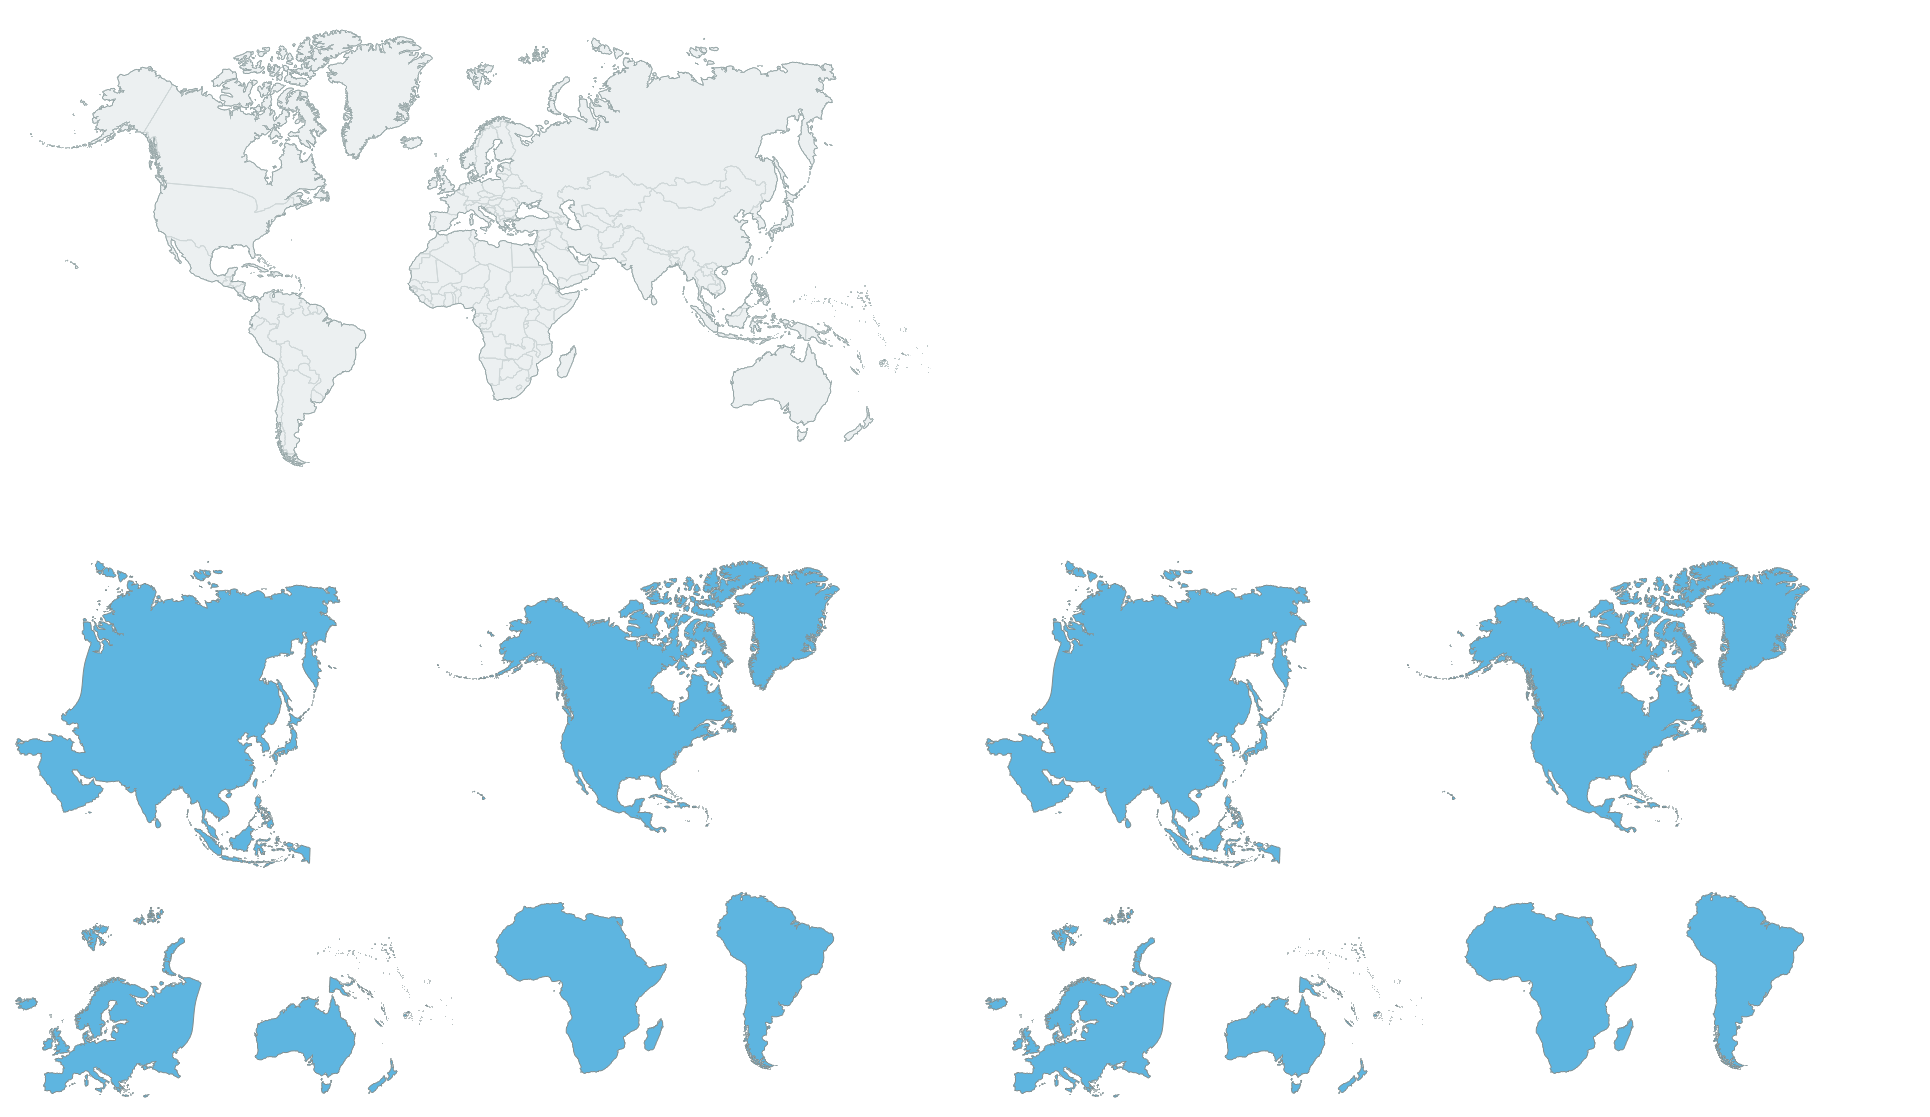
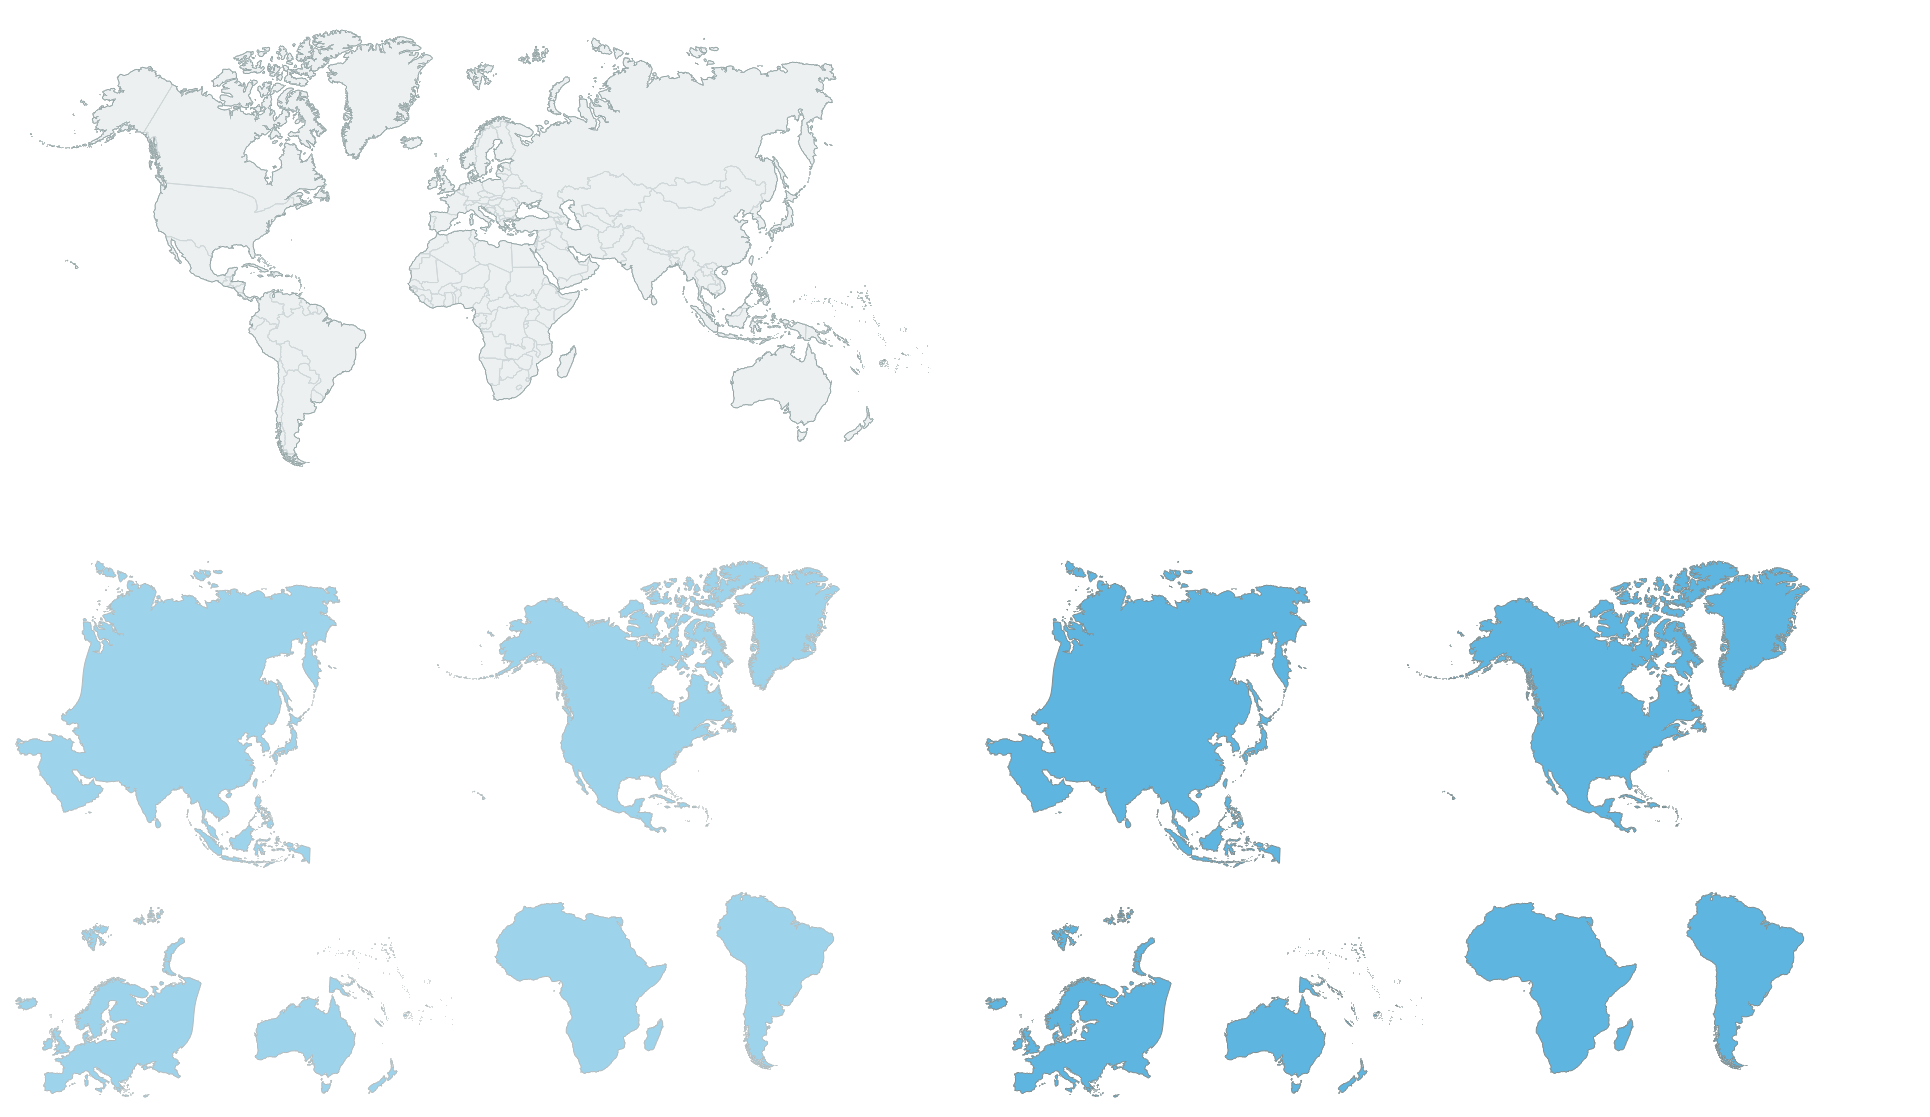
correction css map

diff --git a/public/stylesheet/user_style/map_style.css b/public/stylesheet/user_style/map_style.css
@@ -16,7 +16,7 @@
 .c1 .s1{height:.1em;left:9.5em;top:5.7em;width:.1em}.c1 .s2{height:.4em;left:9.3em;top:5.8em;width:.3em}.c1 .s3{height:.3em;left:9.2em;top:6em;width:.3em}.c1 .s4{height:.2em;left:8.2em;top:6.5em;width:.6em}.c1 .s5{height:.1em;left:8.1em;top:6.4em;width:.8em}.c1 .s6{height:.4em;left:8em;top:6em;width:1em}.c1 .s7{height:.5em;left:8em;top:5.5em;width:1.2em}.c1 .s8{height:.2em;left:9.6em;top:4.8em;width:.1em}.c1 .s9{height:.4em;left:9.5em;top:4.8em;width:.1em}.c1 .s10{height:.5em;left:9.3em;top:4.8em;width:.2em}.c1 .s11{height:.7em;left:9.2em;top:4.7em;width:.1em}.c1 .s12{height:.9em;left:7.9em;top:4.6em;width:1.3em}.c1 .s13{height:1em;left:7.8em;top:4.4em;width:1.3em}.c1 .s14{height:.1em;left:7.5em;top:3.8em;width:.5em}.c1 .s15{height:.1em;left:7.1em;top:3.9em;width:.9em}.c1 .s16{height:.6em;left:6.8em;top:4.3em;width:.1em}.c1 .s17{height:1em;left:7em;top:4.1em;width:.1em}.c1 .s18{height:.8em;left:6.9em;top:4.2em;width:2.1em}.c1 .s19{height:1.2em;left:7.1em;top:4em;width:1.8em} .c2 .s1{height:.1em;left:11.7em;top:.6em;width:.1em}.c2 .s2{height:.1em;left:11.5em;top:.7em;width:.5em}.c2 .s3{height:.2em;left:11.4em;top:.8em;width:.6em}.c2 .s4{height:.1em;left:9.7em;top:.6em;width:.3em}.c2 .s5{height:.1em;left:9.8em;top:.7em;width:.4em}.c2 .s6{height:.1em;left:9.8em;top:.8em;width:.7em}.c2 .s7{height:.1em;left:9.8em;top:.9em;width:.8em}.c2 .s8{height:.3em;left:9.6em;top:1.6em;width:.1em}.c2 .s9{height:.4em;left:9.7em;top:1.6em;width:.1em}.c2 .s10{height:.2em;left:13.9em;top:1.2em;width:.1em}.c2 .s11{height:1.5em;left:13.7em;top:1em;width:.2em}.c2 .s12{height:1.6em;left:13.6em;top:1em;width:.1em}.c2 .s13{height:1.9em;left:13.2em;top:1em;width:.4em}.c2 .s14{height:1.1em;left:9.7em;top:2.1em;width:3.8em}.c2 .s15{height:.9em;left:9.6em;top:2.4em;width:3.8em}.c2 .s16{height:.1em;left:9.3em;top:3.2em;width:.1em}.c2 .s17{height:.5em;left:9.4em;top:3.1em;width:.1em}.c2 .s18{height:.6em;left:9.5em;top:3em;width:3.8em}.c2 .s19{height:2.9em;left:9.8em;top:1em;width:3.4em}.c2 .s20{height:.1em;left:12.4em;top:5.7em;width:.4em}.c2 .s21{height:.2em;left:11.8em;top:5.5em;width:1.6em}.c2 .s22{height:.2em;left:11.6em;top:5.3em;width:1.8em}.c2 .s23{height:.2em;left:11.5em;top:5.1em;width:1.5em}.c2 .s24{height:.1em;left:10.8em;top:5em;width:2.1em}.c2 .s25{height:.1em;left:10.7em;top:4.9em;width:2.2em}.c2 .s26{height:.1em;left:10.6em;top:4.8em;width:2.2em}.c2 .s27{height:.1em;left:9.7em;top:4.8em;width:.1em}.c2 .s28{height:.1em;left:9.3em;top:4.7em;width:3.5em}.c2 .s29{height:.3em;left:9.2em;top:4.4em;width:3.5em}.c2 .s30{height:1.1em;left:9.1em;top:3.5em;width:.1em}.c2 .s31{height:.2em;left:9em;top:4.2em;width:3.8em}.c2 .s32{height:.1em;left:8.6em;top:3.8em;width:.3em}.c2 .s33{height:.2em;left:8.5em;top:3.6em;width:4.8em}.c2 .s34{height:.6em;left:8.9em;top:3.6em;width:4em} .c3 .s1{height:.1em;left:14.3em;top:4.7em;width:.2em}.c3 .s2{height:.1em;left:13.5em;top:4.7em;width:.2em}.c3 .s3{height:.2em;left:13.2em;top:4.9em;width:.2em}.c3 .s4{height:.3em;left:13.4em;top:4.8em;width:.4em}.c3 .s5{height:.5em;left:13.8em;top:4.8em;width:.8em}.c3 .s6{height:.4em;left:13.4em;top:5.3em;width:1.8em}.c3 .s7{height:.1em;left:12.8em;top:5.7em;width:2.4em}.c3 .s8{height:.1em;left:12.7em;top:5.8em;width:2.5em}.c3 .s9{height:.2em;left:15.2em;top:6em;width:.3em}.c3 .s10{height:.3em;left:12.5em;top:5.9em;width:2.7em}.c3 .s11{height:.3em;left:12.4em;top:6em;width:2.6em}.c3 .s12{height:.1em;left:13.2em;top:7.3em;width:1.1em}.c3 .s13{height:.1em;left:13.2em;top:7.2em;width:1.2em}.c3 .s14{height:.1em;left:13.2em;top:7.1em;width:1.3em}.c3 .s15{height:.1em;left:13.1em;top:7em;width:1.5em}.c3 .s16{height:.1em;left:13em;top:6.9em;width:1.6em}.c3 .s17{height:.2em;left:12.2em;top:6.7em;width:2.4em}.c3 .s18{height:.7em;left:12.1em;top:6.1em;width:2.3em} .c4 .s1{height:.1em;left:8.9em;top:.7em;width:.2em}.c4 .s2{height:.1em;left:8.8em;top:.8em;width:.4em}.c4 .s3{height:.2em;left:8.6em;top:.9em;width:.5em}.c4 .s4{height:.2em;left:8.2em;top:1.1em;width:.1em}.c4 .s5{height:.5em;left:7.8em;top:1em;width:.4em}.c4 .s6{height:.1em;left:9.2em;top:1.3em;width:.3em}.c4 .s7{height:.5em;left:9.1em;top:1.4em;width:.3em}.c4 .s8{height:.1em;left:9.7em;top:2em;width:.1em}.c4 .s9{height:.5em;left:8.1em;top:1.9em;width:1.6em}.c4 .s10{height:1em;left:7.9em;top:2em;width:1.7em}.c4 .s11{height:.8em;left:7.8em;top:2.3em;width:1.7em}.c4 .s12{height:.1em;left:6.7em;top:2.2em;width:.3em}.c4 .s13{height:.2em;left:6.6em;top:2.3em;width:.5em}.c4 .s14{height:.1em;left:7.2em;top:2.5em;width:.1em}.c4 .s15{height:1.1em;left:7.7em;top:2.4em;width:1.6em}.c4 .s16{height:.3em;left:9.2em;top:3.3em;width:.2em}.c4 .s17{height:1.1em;left:7.6em;top:2.5em;width:1.5em}.c4 .s18{height:.5em;left:7.1em;top:2.7em;width:2.3em}.c4 .s19{height:1.2em;left:7.3em;top:2.6em;width:1.2em}.c4 .s20{height:.4em;left:7.1em;top:3.5em;width:.4em}.c4 .s21{height:.1em;left:8em;top:3.8em;width:.6em}.c4 .s22{height:.1em;left:8.4em;top:3.9em;width:.5em} .c5 .s1{height:.2em;left:7.1em;top:.9em;width:.1em}.c5 .s2{height:.5em;left:7em;top:.8em;width:.1em}.c5 .s3{height:1em;left:6.9em;top:.7em;width:.1em}.c5 .s4{height:1.5em;left:6.7em;top:.6em;width:.2em}.c5 .s5{height:1.6em;left:6.4em;top:.6em;width:.3em}.c5 .s6{height:1.7em;left:6.3em;top:.6em;width:.1em}.c5 .s7{height:1.7em;left:6.1em;top:.7em;width:.2em}.c5 .s8{height:.1em;left:5.2em;top:.5em;width:.8em}.c5 .s9{height:.1em;left:5em;top:.6em;width:1.1em}.c5 .s10{height:2em;left:4.3em;top:.7em;width:1.8em}.c5 .s11{height:2.6em;left:4em;top:.8em;width:1.5em}.c5 .s12{height:2.6em;left:3.9em;top:.9em;width:1.3em}.c5 .s13{height:2.6em;left:3.7em;top:1.1em;width:1.1em}.c5 .s14{height:2.6em;left:3.5em;top:1.2em;width:1.1em}.c5 .s15{height:.2em;left:.5em;top:2.2em;width:.2em}.c5 .s16{height:.2em;left:.7em;top:2.3em;width:.9em}.c5 .s17{height:.1em;left:1.3em;top:1.6em;width:.2em}.c5 .s18{height:.7em;left:1.2em;top:1.7em;width:.5em}.c5 .s19{height:1em;left:1.7em;top:1.4em;width:.2em}.c5 .s20{height:1.1em;left:1.9em;top:1.2em;width:.2em}.c5 .s21{height:1.2em;left:2.1em;top:1.1em;width:.3em}.c5 .s22{height:1.8em;left:2.4em;top:1.1em;width:.1em}.c5 .s23{height:2.6em;left:2.5em;top:1.1em;width:.1em}.c5 .s24{height:2.7em;left:2.6em;top:1.2em;width:.1em}.c5 .s25{height:2.8em;left:2.7em;top:1.3em;width:.1em}.c5 .s26{height:3em;left:2.8em;top:1.3em;width:.1em}.c5 .s27{height:3em;left:2.9em;top:1.4em;width:.2em}.c5 .s28{height:3.2em;left:3.1em;top:1.4em;width:1.4em}.c5 .s29{height:.4em;left:3.2em;top:4.3em;width:1.4em}.c5 .s30{height:.2em;left:3.9em;top:4.8em;width:.3em}.c5 .s31{height:.3em;left:3.4em;top:4.5em;width:1.6em}.c5 .s32{height:.3em;left:4.9em;top:4.6em;width:.2em}.c5 .s33{height:.2em;left:4em;top:4.9em;width:.3em}.c5 .s34{height:.2em;left:1.1em;top:4.3em;width:.2em} .c6 .s1{height:.4em;left:4.1em;top:5.2em;width:.1em}.c6 .s2{height:.7em;left:4.2em;top:5.1em;width:.1em}.c6 .s3{height:1em;left:4.3em;top:4.9em;width:.1em}.c6 .s4{height:1.2em;left:4.4em;top:4.8em;width:.2em}.c6 .s5{height:.4em;left:6em;top:5.4em;width:.1em}.c6 .s6{height:.8em;left:5.8em;top:5.4em;width:.2em}.c6 .s7{height:1em;left:5.6em;top:5.3em;width:.2em}.c6 .s8{height:1.2em;left:5.5em;top:5.3em;width:.1em}.c6 .s9{height:1.6em;left:5.4em;top:5.1em;width:.1em}.c6 .s10{height:1.8em;left:5.3em;top:5em;width:.1em}.c6 .s11{height:1.9em;left:5.2em;top:5em;width:.1em}.c6 .s12{height:.5em;left:4.5em;top:6.7em;width:.1em}.c6 .s13{height:2.8em;left:4.6em;top:4.8em;width:.2em}.c6 .s14{height:2.9em;left:4.7em;top:4.9em;width:.5em}
 
 /* size: 960 */
-.cssmap-960{width:960px} .cssmap-960 .continents,.cssmap-960 .continents .bg,.cssmap-960 .continents-cities{background:transparent url('default/continents-960.png') no-repeat 0 0}  .cssmap-960,.cssmap-960 .continents-cities{height:495px;width:960px}  .cssmap-960 .continents-cities{background-position:-970px 0}  .cssmap-960 .continents .m{margin:9999px 0 0 0}  .cssmap-960 .continents .m span{font-size:60px !important}
+.cssmap-960{width:960px} .cssmap-960 .continents, .cssmap-960 .continents .bg, .cssmap-960 .continents-cities{background:transparent url('default/continents-960.png') no-repeat 0 0} .cssmap-960 .continents.cssmap-blue, .continents, .cssmap-960 .continents-cities{height:495px;width:960px} .cssmap-960 .continents-cities{background-position:-970px 0} .cssmap-960 .continents .m{margin:9999px 0 0 0} .cssmap-960 .continents .m span{font-size:60px !important}
 .cssmap-960 .c1.focus .bg,.cssmap-960 .c1.active-region .bg{height:172px;left:397px;top:219px;width:172px}.cssmap-960 .c1.focus .bg{background-position:-484px -892px}.cssmap-960 .c1.active-region .bg{background-position:-1454px -892px} .cssmap-960 .c2.focus .bg,.cssmap-960 .c2.active-region .bg{height:307px;left:501px;top:28px;width:325px}.cssmap-960 .c2.focus .bg{background-position:-5px -551px}.cssmap-960 .c2.active-region .bg{background-position:-975px -551px} .cssmap-960 .c3.focus .bg,.cssmap-960 .c3.active-region .bg{height:157px;left:720px;top:275px;width:201px}.cssmap-960 .c3.focus .bg{background-position:-244px -927px}.cssmap-960 .c3.active-region .bg{background-position:-1214px -927px} .cssmap-960 .c4.focus .bg,.cssmap-960 .c4.active-region .bg{height:191px;left:390px;top:36px;width:186px}.cssmap-960 .c4.focus .bg{background-position:-5px -897px}.cssmap-960 .c4.active-region .bg{background-position:-975px -897px} .cssmap-960 .c5.focus .bg,.cssmap-960 .c5.active-region .bg{height:272px;left:19px;top:19px;width:403px}.cssmap-960 .c5.focus .bg{background-position:-426px -550px}.cssmap-960 .c5.active-region .bg{background-position:-1396px -550px} .cssmap-960 .c6.focus .bg,.cssmap-960 .c6.active-region .bg{height:178px;left:238px;top:279px;width:117px}.cssmap-960 .c6.focus .bg{background-position:-706px -882px}.cssmap-960 .c6.active-region .bg{background-position:-1676px -882px}
 .cssmap-960 .c1 a{left:508px;top:290px} .cssmap-960 .c2 a{left:654px;top:161px}.cssmap-960 .c2 a.tooltip-right .tooltip-arrow{right:306px} .cssmap-960 .c3 a{left:785px;top:379px}.cssmap-960 .c3 a.tooltip-right .tooltip-arrow{right:175px} .cssmap-960 .c4 a{left:493px;top:186px} .cssmap-960 .c5 a{left:207px;top:169px}.cssmap-960 .c5 a.tooltip-left .tooltip-arrow{left:207px} .cssmap-960 .c6 a{left:308px;top:345px}.cssmap-960 .c6 a.tooltip-left .tooltip-arrow{left:308px}
 
